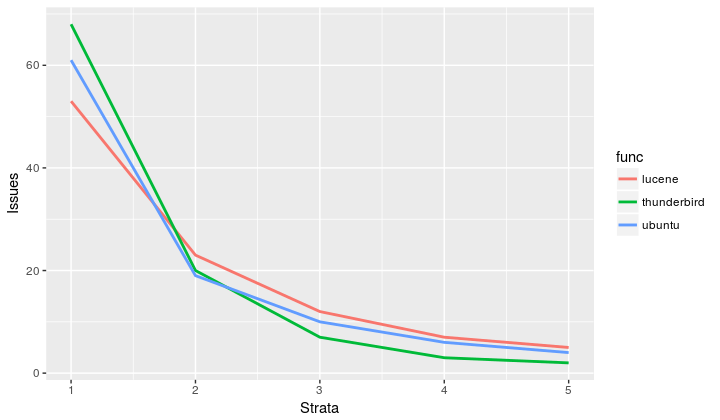
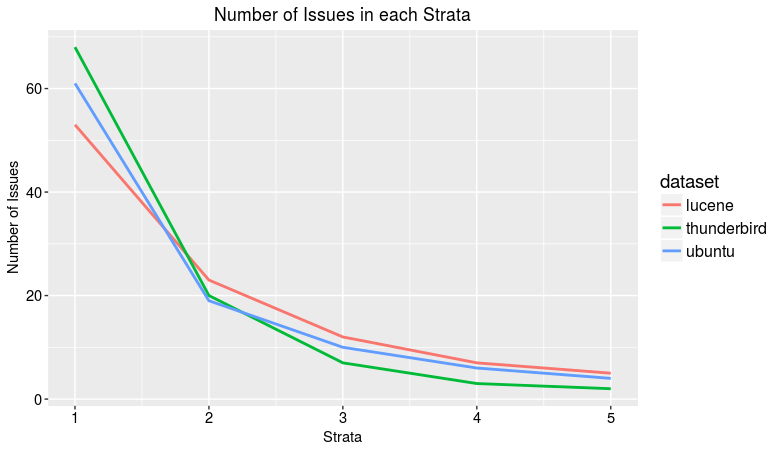
Report: Updated Chapter 4 along with graphs

diff --git a/thesis-template-master/thesis.tex b/thesis-template-master/thesis.tex
@@ -676,18 +676,7 @@ Launchpad did not have its export option to fetch mass number of issues and its 
     \caption{Overview of distribution of comments for Ubuntu}
     \label{fig:ubuntuRawDistro}
 \end{figure}
- 
-%\subsection{Commit Logs Dataset}
-%This section scrutinizes how the data of commit messages were obtained for Apache Lucene, Mozilla Thunderbird and Ubuntu.
 
-%\subsubsection{Apache Lucene}
-%Apache Lucene uses Git for its version control, which was developed by Linus Torvald and released in 2005. Apache Lucene along with SOLR is hosted together within the same repository on GitHub. The repository was cloned to local environment in the system to retrieve the commit logs. Git allows the logs of the repository to be exported in TXT format and this is the method that has been used to get all the logs for Apache Lucene. However, a parsing script was additionally written in Python to obtain all the commit id, author, date and commit message respectively. These information was later stored in a MySQL database. 
-
-%\subsubsection{Mozilla Thunderbird}
-%Mozilla Thunderbird uses Mercurial for its version control, which was developed by Matt Mackall and released in 2005. The Mozilla Thunderbird project in a repository owned by Mozilla. This repository was cloned to the system to extract the commit logs. Like Git, Mercurial also offers users an option to extract the entire commit log history in TXT format. This data was parsed using a script written in Python to retrieve all the commit id, author, date and commit message respectively. The retrieved information was eventually stored in a MySQL database. 
-
-%\subsubsection{Ubuntu}
-%Ubuntu makes use of Bazaar primarily for its version control, which was developed by Martin Pool in 2005 and maintained by Canonical Ltd. The Ubuntu project is hosted on Launchpad platform using Bazaar. Due to too numerous repositories, the entire Ubuntu project could not be cloned individually. However, a script in Python was written using the BeautifulSoup library; similar to the script used for fetching data from issue trackers for Ubuntu. Identical problems of many downlinks were encountered and hence, only those that were up were fetched automatically. A MySQL database was used to store all of these information. 
 
 \section{IRC Messages Dataset}
 
@@ -713,38 +702,18 @@ The IRC messages dataset has been scraped by Nonnenmacher \cite{Nonnenmacher2017
 
 %------- chapter 4 -------
 
-\chapter{Manual Content Analysis}
+\chapter{Content Analysis}
 
 This chapter dives into the procedure of manual content analysis and the formation of ground truth for machine learning experiments to be carried out later. In addition, this chapter also gives insights on how the sample data for the experiements to be performed were obtained from the initial raw dataset. 
 
-\begin{figure}[h] %b!]
-    \centering
-    \includegraphics[width=12cm]{frequency-object-diagram}
-    \caption{Approach to check rationale frequency using UML object diagram}
-    \label{fig:frequencyModel}
-\end{figure}
-
-\section{Ground Truth Dataset}
-An imperative step after performing machine learning experiements is to measure characteristics such as accuracy, precision, recall and F1 score. This, in turn, means one needs to have a reliable dataset for ground truth. Messages from the issue trackers have no pre-defined structure as to whether they contain any kind of rationale or not. To have similar understanding, be on the same page and reduce the number of disagreements later, both the annotators randomly went through a few sentences. The annotators marked rationale for each of them if applicable, classified them appropriately, and shared their perspectives before concluding on mutual agreements as to how to go about in the main manual content analysis experiment.  Some of the examples are mentioned in detail in the coding guide for manual content analysis. There were two kinds of classification performed in this stage: binary and multi-class classification. Binary classification was done to check if the sentence contains any kind of rationale or not. Multi-class classification was done to classify the sentence, if rationale is found, into five categories: issue, alternatives, pro-arguments, con-arguments and decision, which are explained as follows.
-
-\begin{itemize}
-\item \textbf{Issue:} the problem to be solved, or a feature to be implemented
-\item \textbf{Alternative:} the feasible solutions that could address the issue
-\item \textbf{Pro-Argument:} the argument put across in favor of a particular alternative
-\item \textbf{Con-Argument:} the argument put across against a particular alternative
-\item \textbf{Decision:} the final conclusions made to resolve the issue
-\end{itemize}
-
 \section{Random Stratified Sampling}
-For the main content analysis, two annotators, the author and his advisor, individually read through individual sentences of all comments spanning 100 issues from each of the three projects. Although the number of issues fetched for each of them were much higher, only 100 of them were attained for each project using Random Stratified Sampling (RSS) due to time constraints of the research. RSS can be of two types: proportionate random stratified sampling and disproportionate random stratified sampling. In proportionate random stratified sampling\footnote{\url{http://www.oxfordreference.com/view/10.1093/oi/authority.20110803100349910}}, the parent dataset is divided into multiple strata and the child dataset sampled randomly must have the strata in the same proportion as the parent dataset. Contrary to proportionate random stratified sampling, the case of disproportionate random stratified sampling\footnote{\url{http://www.oxfordreference.com/view/10.1093/oi/authority.20110803095722568}} has the parent dataset divided into multiple strate but the child dataset sampled randomly may not have its strata in the same proportion as the parent dataset. There are, however, three steps carried out sequentially to obtain the sample which are as follows.
-
+For the main content analysis, two annotators, the author and his advisor, individually read through each sentence of all comments spanning 100 issues from each of the three projects. Although the number of issues fetched for each of them were much higher, only 100 of them were attained for each project using Random Stratified Sampling (RSS) due to time constraints of the research. RSS can be of two types: proportionate random stratified sampling and disproportionate random stratified sampling. In proportionate random stratified sampling\footnote{\url{http://www.oxfordreference.com/view/10.1093/oi/authority.20110803100349910}}, the parent dataset is divided into multiple strata and the child dataset sampled randomly must have the strata in the same proportion as the parent dataset. Contrary to proportionate random stratified sampling, the case of disproportionate random stratified sampling\footnote{\url{http://www.oxfordreference.com/view/10.1093/oi/authority.20110803095722568}} has the parent dataset divided into multiple strate but the child dataset sampled randomly may not have its strata in the same proportion as the parent dataset. There are, however, three steps carried out sequentially to obtain the sample which are as follows.
+\newline 
 \begin{itemize}
 \item {Step 1:} Filter the dataset by discarding issues that do not fall under the required date range. The required date range is the range used in the IRC message dataset which can be referred in Table \ref{tab:rawIRCMessages}. This is to make sure the comments from issue trackers are from the same duration as messages from IRC. 
-\item {Step 2:} In the next step, count the number of comments for each issue that are under the required date range but only consider issues that have between 5 and 30 comments, and divide them into 5 groups: 6-10 comments, 11-15 comments, 16-20 comments, 21-25 comments and 26-30 comments, in order to avoid issues with too few comments (less than 5) or way too many comments (greater than 30). 
+\item {Step 2:} In the next step, count the number of comments for each issue that are under the required date range but only consider issues that have between 5 and 30 comments to avoid issues with too few comments (less than 5) or way too many comments (greater than 30). The 5 groups are: 6-10, 11-15, 16-20, 21-25 and 26-30 comments.
 \item {Step 3:} Perform proportionate random stratified sampling to obtain 100 random issues from the filtered dataset in step 2 for each of the three projects. 
 \end{itemize}
-
-
 
 \begin{table} %[hb!]
     \centering
@@ -764,15 +733,15 @@ For the main content analysis, two annotators, the author and his advisor, indiv
     \label{tab:strataProportion}
 \end{table}
 
-From Table \ref{tab:strataProportion} and Figure \ref{fig:multilineStrata}, it can be seen that there is an inverse correlation between the number of issues and comments in each strata. All the three projects, Apache Lucene, Mozilla Thunderbird and Ubuntu, demonstrate that the number of issues in each strata gradually decreases as the number of comments in them increases. 
-\bigbreak
+From Table \ref{tab:strataProportion} and Figure \ref{fig:multilineStrata}, it can be seen that there is an inverse correlation between the number of issues and comments in each strata. All the three projects, Apache Lucene, Mozilla Thunderbird and Ubuntu, demonstrate that the number of issues in each strata gradually decreases as the number of comments in them increases. The figures on number of comments and the number of sentences under each project after performing the random stratified sampling are presented in Table \ref{tab:overviewRSS}. 
+\newline 
 \begin{figure}[h] %b!]
     \centering
-    \includegraphics[width=11cm]{rss-multi-line-plot}
+    \includegraphics[width=12cm]{rss-multi-line-plot}
     \caption{Number of issues in each strata for all 3 projects}
     \label{fig:multilineStrata}
 \end{figure}
-The figures on number of comments and the number of sentences under each project after performing the random stratified sampling are presented in Table \ref{tab:overviewRSS}. 
+\newline 
 
 \begin{table} %[hb!]
     \centering
@@ -793,12 +762,11 @@ The figures on number of comments and the number of sentences under each project
 \end{table}
 
 \section{Manual Annotation}
-After having performed Random Stratified Sampling, the next step was to manully annotate or label each every sentence from all the 3 projects, Apache Lucene, Mozilla Thunderbird and Ubuntu. These annotations would therefore form the groundtruth to perform the machine learning classification experiments in later stages of this thesis. Manual annotation has been a popular technique and has been implemented in the past by various researchers \cite{Alkadhi2017} \cite{Nonnenmacher2017}. 
-\bigbreak
+After having performed RSS, the next step was to manully annotate or label each every sentence from all three projects, Apache Lucene, Mozilla Thunderbird and Ubuntu. These annotations would therefore form the groundtruth to perform the machine learning classification experiments in later stages of this thesis. Manual annotation has been a popular technique and has been implemented in the past by various researchers \cite{Alkadhi2017} \cite{Nonnenmacher2017}. 
+\newline \newline 
 To perform this step, Excel was used since it was a tool to achieve the goal without having the need to install anything more. A set of criteria found in Appendix A was agreed upon and followed by the two annotators, the author and his advisor. Both the annotators individually labeled the sentences from all the 3 projects. While the author of this thesis took 21 hours to accomplish this task, the same task took a tad bit more, 21 hours and 15 minutes for his advisor. 
-\bigbreak
-The second step of this annotation task was to keep all the complete agreements intact but discuss the sub-agreements and complete disagreements. Sub-agreements were those sentences were there was an overlap of labeling between the author and his advisor. For an example, a sentence was labeled as an issue and decision by the author while the advisor marked it as an issue and an alternative. One can note that both had agreed that the sentece does belong to the class of issue but had conflicting opinions about decision or an alternative. Complete disagreements are cases were both of them marked a given sentence as completely different with no overlap of opinions. For example, a sentence was marked as an alternative by the author while his advisor marked it as a decision. Both, the author and his advisor, then sat once again, this time together, to resolve all the conflicting opinions and come to a mutual conclusion on the labels. Table \ref{tab:labelBinary} and Table \ref{tab:labelFine} gives the statistics of agreements and disagreements of the two annotators. 
-
+\newline \newline 
+The second step of this annotation task was to keep all the complete agreements intact but discuss the sub-agreements and complete disagreements. Sub-agreements were those sentences were there was an overlap of labeling between the author and his advisor. For an example, a sentence was labeled as an issue and decision by the author while the advisor marked it as an issue and an alternative. One can note that both had agreed that the sentece does belong to the class of issue but had conflicting opinions about decision or an alternative. Complete disagreements are cases were both of them marked a given sentence as completely different with no overlap of opinions. For example, a sentence was marked as an alternative by the author while his advisor marked it as a decision. Both, the author and his advisor, then sat once again, this time together, to resolve all the conflicting opinions and come to a mutual conclusion on the labels. Table \ref{tab:labelBinary} and Table \ref{tab:labelFine} gives the statistics of agreements and disagreements between two annotators. 
 \begin{table} %[hb!]
     \centering
     \begin{adjustbox}{max width=\columnwidth}
@@ -816,7 +784,6 @@ The second step of this annotation task was to keep all the complete agreements 
     \captionof{table}{Annotation Statistics for Binary Classification}
     \label{tab:labelBinary}
 \end{table}
-
 \begin{table} %[hb!]
     \centering
     \begin{adjustbox}{max width=\columnwidth}
@@ -836,7 +803,11 @@ The second step of this annotation task was to keep all the complete agreements 
 \end{table}
 
 \section{Annotation Results}
-The results of manual annotation from both the annotators are presented in this section. Table \ref{tab:distroBinaryRationale} gives a detailed overview with both, number and percentages, for all three projects. It can be inferred that Apache Lucene had the highest ratio between sentences with rationale to ones without any rationale whereas Mozilla Thunderbird and Ubuntu appear to be having a healthy ratio between both, rationale and no rationale. Ubuntu is the only project though where the number of sentences with rationale has been outnumbered marginally by the number of sentences not containing any kind of rationale in it. Figure \ref{fig:distroBinaryRationale} shows the proportion of messages for all three projects. Similarly, Table \ref{tab:distroMultiRationale} presents complete overview with numbers and percetage for fine-grained rationale found in the dataset. Apache Lucene (11\%) had the least percentage of issues compared to Mozilla Thunderbird (24\%) and Ubuntu (25\%). However, higher percentage of decisions were made in Apache Lucene (8\%) than Mozilla Thunderbird (3\%) or Ubuntu (4\%). The numbers look very similar even in the case of alternatives, pro-arguments and con-arguments, where Apache Lucene outnumbers Mozilla Thunderbird and Ubuntu. The following numbers can also lead to the inference that due to lesser number of issues, more number of final decisions were reached in case of Apache Lucene. This also leads to another observation that lesser decisions were made in the case of Mozilla Thunderbird and Ubuntu because the numbers for alternatives, pro-argument and con-argument are also low, which are crucial to reach a final conclusion. Figure \ref{fig:distroMultiRationale} shows the distribution of fine-grained rationale in the dataset across all three projects. 
+The results of manual annotation from both the annotators are presented in this section. Table \ref{tab:distroBinaryRationale} gives a detailed overview with both, number and percentages, for all three projects. It can be inferred that Apache Lucene had the highest ratio between sentences with rationale to ones without any rationale whereas Mozilla Thunderbird and Ubuntu appear to be having a healthy ratio between both, rationale and no rationale. Ubuntu is the only project though where the number of sentences with rationale has been outnumbered marginally by the number of sentences not containing any kind of rationale in it. Figure \ref{fig:distroBinaryRationale} shows the proportion of messages for all three projects. 
+\newline \newline
+Similarly, Table \ref{tab:distroMultiRationale} presents complete overview with numbers and percetage for fine grained rationale found in the dataset. Apache Lucene (11\%) had the least percentage of issues compared to Mozilla Thunderbird (24\%) and Ubuntu (25\%). However, higher percentage of decisions were made in Apache Lucene (8\%) than Mozilla Thunderbird (3\%) or Ubuntu (4\%). The numbers look very similar even in the case of alternatives, pro-arguments and con-arguments, where Apache Lucene outnumbers Mozilla Thunderbird and Ubuntu. 
+\newline \newline
+The following numbers can also lead to the inference that due to lesser number of issues, more number of final decisions were reached in case of Apache Lucene. This leads to another observation that lesser decisions were made in the case of Mozilla Thunderbird and Ubuntu because the numbers for alternatives, pro-argument and con-argument are also low, which are crucial to reach a final conclusion. Figure \ref{fig:distroMultiRationale} shows the distribution of fine-grained rationale in the dataset across all three projects. 
 
 \begin{table} %[hb!]
     \centering
@@ -858,10 +829,11 @@ The results of manual annotation from both the annotators are presented in this 
 
 \begin{figure}[h] %b!]
     \centering
-    \includegraphics[width=11cm]{binary-distro-rationale}
+    \includegraphics[width=14cm]{binary-distro-rationale}
     \caption{Distribution of Rationale Frequency}
     \label{fig:distroBinaryRationale}
 \end{figure}
+
 \begin{table} %[hb!]
     \centering
     \begin{adjustbox}{max width=\columnwidth}
@@ -876,14 +848,14 @@ The results of manual annotation from both the annotators are presented in this 
         \midrule
     \end{tabular}
     \end{adjustbox}
-    \captionof{table}{Distribution of Fine-Grained Rationale in Sentences}
+    \captionof{table}{Distribution of Fine Grained Rationale in Sentences}
     \label{tab:distroMultiRationale}
 \end{table}
 
 \begin{figure}[h] %b!]
     \centering
-    \includegraphics[width=12cm]{multi-distro-rationale}
-    \caption{Distribution of Fine-Grained Rationale Frequency}
+    \includegraphics[width=14cm]{multi-distro-rationale}
+    \caption{Distribution of Fine Grained Rationale Frequency}
     \label{fig:distroMultiRationale}
 \end{figure}
 
